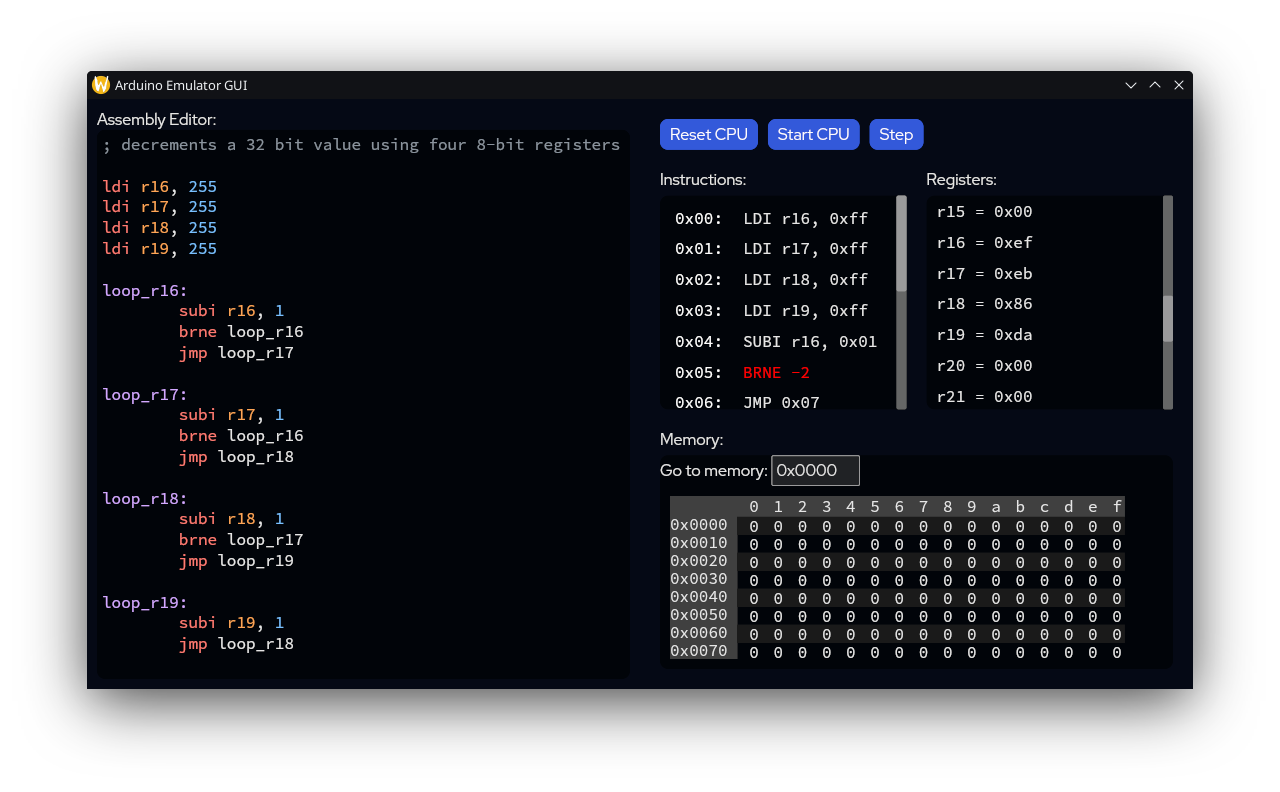
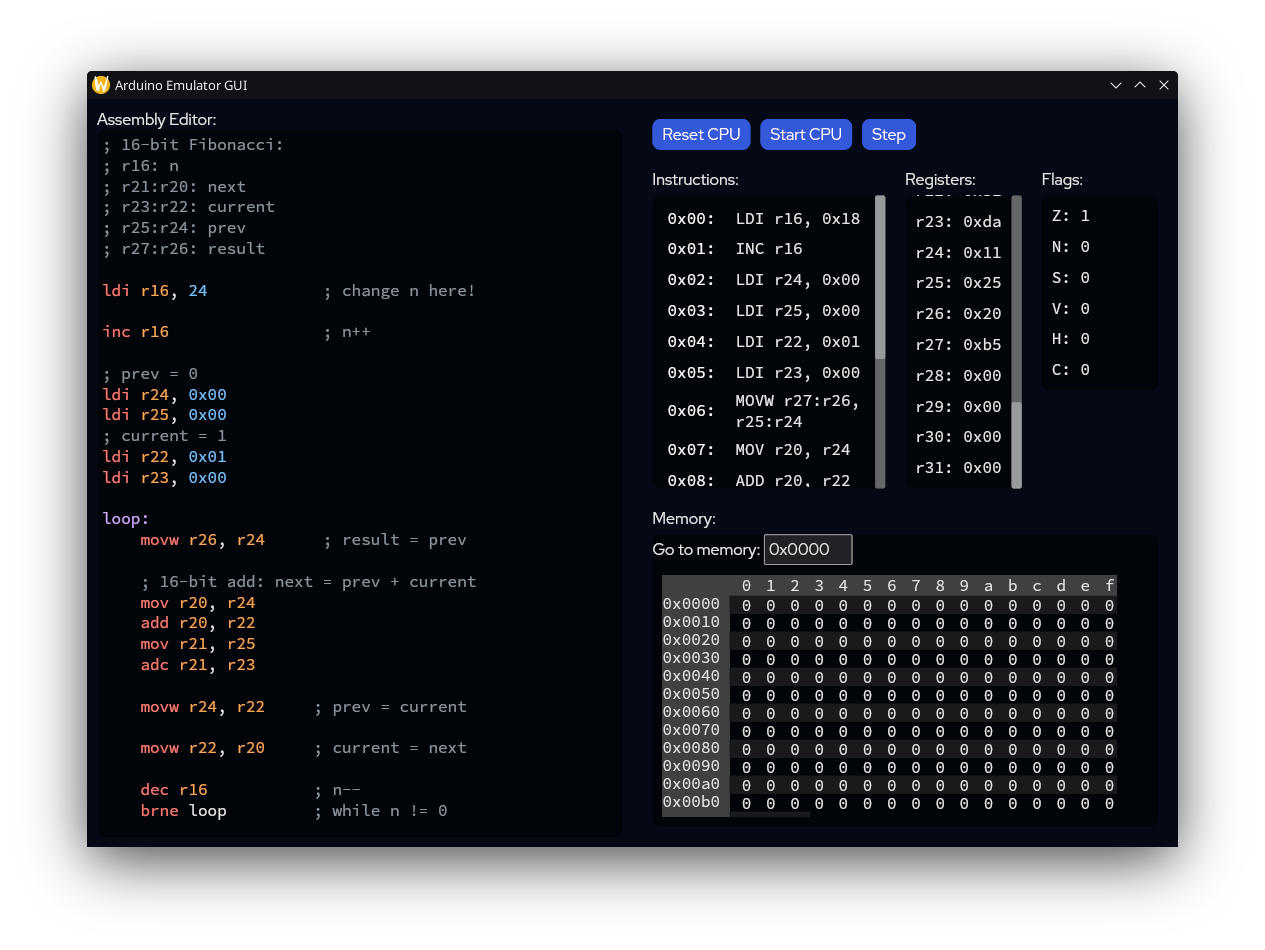
gui: added cpu flag pane + 16-bit fibonacci!

diff --git a/ardemu_gui/src/main.rs b/ardemu_gui/src/main.rs
@@ -46,7 +46,7 @@ struct App {
 
 impl Default for App {
 	fn default() -> Self {
-		let asm_source_code = include_str!("count_down.asm").to_string();
+		let asm_source_code = include_str!("fib16.asm").to_string();
 		let asm_output = parse_asm(&asm_source_code);
 		let cpu = match asm_output.as_ref() {
 			Ok(program) => Cpu::new(program.clone()),
@@ -192,7 +192,7 @@ impl App {
 					.on_action(Message::AsmSourceCodeChanged),
 			))
 			.style(panel_style)
-			.width(Fill)
+			.width(if portrait { Fill } else { FillPortion(2) })
 			.height(if portrait { FillPortion(2) } else { Fill }),
 		]
 		.into()
@@ -261,7 +261,11 @@ impl App {
 			})
 			.style(panel_style),
 		]
-		.width(if portrait { FillPortion(2) } else { Fill })
+		.width(if portrait {
+			FillPortion(3)
+		} else {
+			FillPortion(2)
+		})
 		.spacing(5)
 		.into()
 	}
@@ -273,10 +277,33 @@ impl App {
 				Column::with_children(Register::ALL.iter().map(|reg| {
 					let value = cpu.read_register(*reg);
 
-					text(format!("{reg} = {value:#04x}"))
+					text(format!("{reg}: {value:#04x}"))
 						.font(Font::MONOSPACE)
 						.into()
 				}))
+				.spacing(10)
+				.padding(10)
+				.width(Fill)
+			))
+			.style(panel_style)
+		]
+		.width(Fill)
+		.spacing(5)
+		.into()
+	}
+
+	fn flags_pane(&self, cpu: &Cpu) -> Element<Message> {
+		column![
+			text("Flags:"),
+			container(scrollable(
+				column![
+					row![text!("Z: {}", cpu.flags().zero() as u8).font(Font::MONOSPACE)],
+					row![text!("N: {}", cpu.flags().negative() as u8).font(Font::MONOSPACE)],
+					row![text!("S: {}", cpu.flags().sign() as u8).font(Font::MONOSPACE)],
+					row![text!("V: {}", cpu.flags().overflow() as u8).font(Font::MONOSPACE)],
+					row![text!("H: {}", cpu.flags().half_carry() as u8).font(Font::MONOSPACE)],
+					row![text!("C: {}", cpu.flags().carry() as u8).font(Font::MONOSPACE)]
+				]
 				.spacing(10)
 				.padding(10)
 				.width(Fill)
@@ -404,7 +431,7 @@ impl App {
 			}))
 			.style(panel_style)
 		]
-		.width(if portrait { FillPortion(2) } else { Fill })
+		.width(if portrait { FillPortion(3) } else { Fill })
 		.spacing(5)
 		.into()
 	}
@@ -414,16 +441,17 @@ impl App {
 
 		let instruction_pane = self.instructions_pane(cpu, portrait);
 		let register_pane = self.registers_pane(cpu);
+		let flags_pane = self.flags_pane(cpu);
 		let memory_pane = self.memory_pane(cpu, portrait);
 
 		let panes: Element<Message> = if portrait {
-			row![instruction_pane, register_pane, memory_pane,]
+			row![instruction_pane, register_pane, flags_pane, memory_pane,]
 				.spacing(20)
 				.height(FillPortion(1))
 				.into()
 		} else {
 			column![
-				row![instruction_pane, register_pane,]
+				row![instruction_pane, register_pane, flags_pane]
 					.spacing(20)
 					.height(Fill),
 				container(memory_pane).height(Fill),

diff --git a/tests/fib.rs b/tests/fib.rs
@@ -1,20 +1,41 @@
 use ardemu_asm_parse_macro::include_asm;
 use ardemu_core::{
 	Cpu, CpuStatus,
-	Register::{R16, R20},
+	Register::{R16, R20, R26},
+	RegisterPair16,
 };
+
+fn testing_fib(n: usize) -> usize {
+	if n == 0 || n == 1 {
+		return n;
+	}
+
+	testing_fib(n - 1) + testing_fib(n - 2)
+}
 
 #[test]
 fn fib() {
-	let mut cpu = Cpu::new(include_asm!("src/fib.asm"));
+	for n in 0..=10 {
+		let mut cpu = Cpu::new(include_asm!("src/fib.asm"));
+		cpu.write_register(R16, n as u8);
 
-	let n = 10;
+		while matches!(cpu.step().unwrap(), CpuStatus::Normal) {}
 
-	cpu.write_register(R16, n);
+		let result = cpu.read_register(R20) as usize;
+		assert_eq!(result, testing_fib(n));
+	}
+}
 
-	while matches!(cpu.step(), Ok(CpuStatus::Normal)) {}
+#[test]
+fn fib16() {
+	for n in 0..=24 {
+		let mut cpu = Cpu::new(include_asm!("src/fib16.asm"));
+		cpu.write_register(R16, n as u8);
 
-	let result = cpu.read_register(R20);
+		while matches!(cpu.step().unwrap(), CpuStatus::Normal) {}
 
-	assert_eq!(result, 55);
+		let result = cpu.read_register_pair16(RegisterPair16::new(R26).unwrap()) as usize;
+
+		assert_eq!(result, testing_fib(n));
+	}
 }

diff --git a/ardemu_core/src/flags.rs b/ardemu_core/src/flags.rs
@@ -19,6 +19,15 @@ impl Flags {
 	pub fn zero(&self) -> bool {
 		self.zero
 	}
+	pub fn negative(&self) -> bool {
+		self.negative
+	}
+	pub fn sign(&self) -> bool {
+		self.sign
+	}
+	pub fn overflow(&self) -> bool {
+		self.overflow
+	}
 	pub fn carry(&self) -> bool {
 		self.carry
 	}
@@ -26,8 +35,8 @@ impl Flags {
 	pub fn carry_u8(&self) -> u8 {
 		self.carry as u8
 	}
-	pub fn sign(&self) -> bool {
-		self.sign
+	pub fn half_carry(&self) -> bool {
+		self.half_carry
 	}
 
 	fn set_zns(&mut self, result: u8) {

diff --git a/ardemu_web/src/lib.rs b/ardemu_web/src/lib.rs
@@ -1,6 +1,7 @@
 use ardemu_core::{
 	parse_asm, Cpu, CpuStatus,
-	Register::{self, R20},
+	Register::{self, R26},
+	RegisterPair16,
 };
 use wasm_bindgen::prelude::*;
 
@@ -35,7 +36,7 @@ pub fn evaluate(source_code: &str) -> String {
 		.collect::<Vec<String>>()
 		.join(", ");
 
-	let result = cpu.read_register(R20);
+	let result = cpu.read_register_pair16(RegisterPair16::new(R26).unwrap());
 	format!(
 		"{instructions_str}\n\n{cpu_register_str}\n\nEvaluated to {}",
 		result

diff --git a/ardemu_core/src/cpu.rs b/ardemu_core/src/cpu.rs
@@ -62,6 +62,10 @@ impl Cpu {
 		&self.breakpoints
 	}
 
+	pub fn flags(&self) -> Flags {
+		self.flags
+	}
+
 	pub fn get_program_counter(&self) -> u16 {
 		self.program_counter
 	}
@@ -227,7 +231,7 @@ impl Cpu {
 			}
 			Instruction::Call { address } => {
 				// TODO: handle 16-bit PC, for now not needed
-				self.push(self.program_counter as u8 + 2)?;
+				self.push(self.program_counter as u8 + 1)?;
 				self.program_counter = address.0;
 			}
 			Instruction::Ret {} => {
